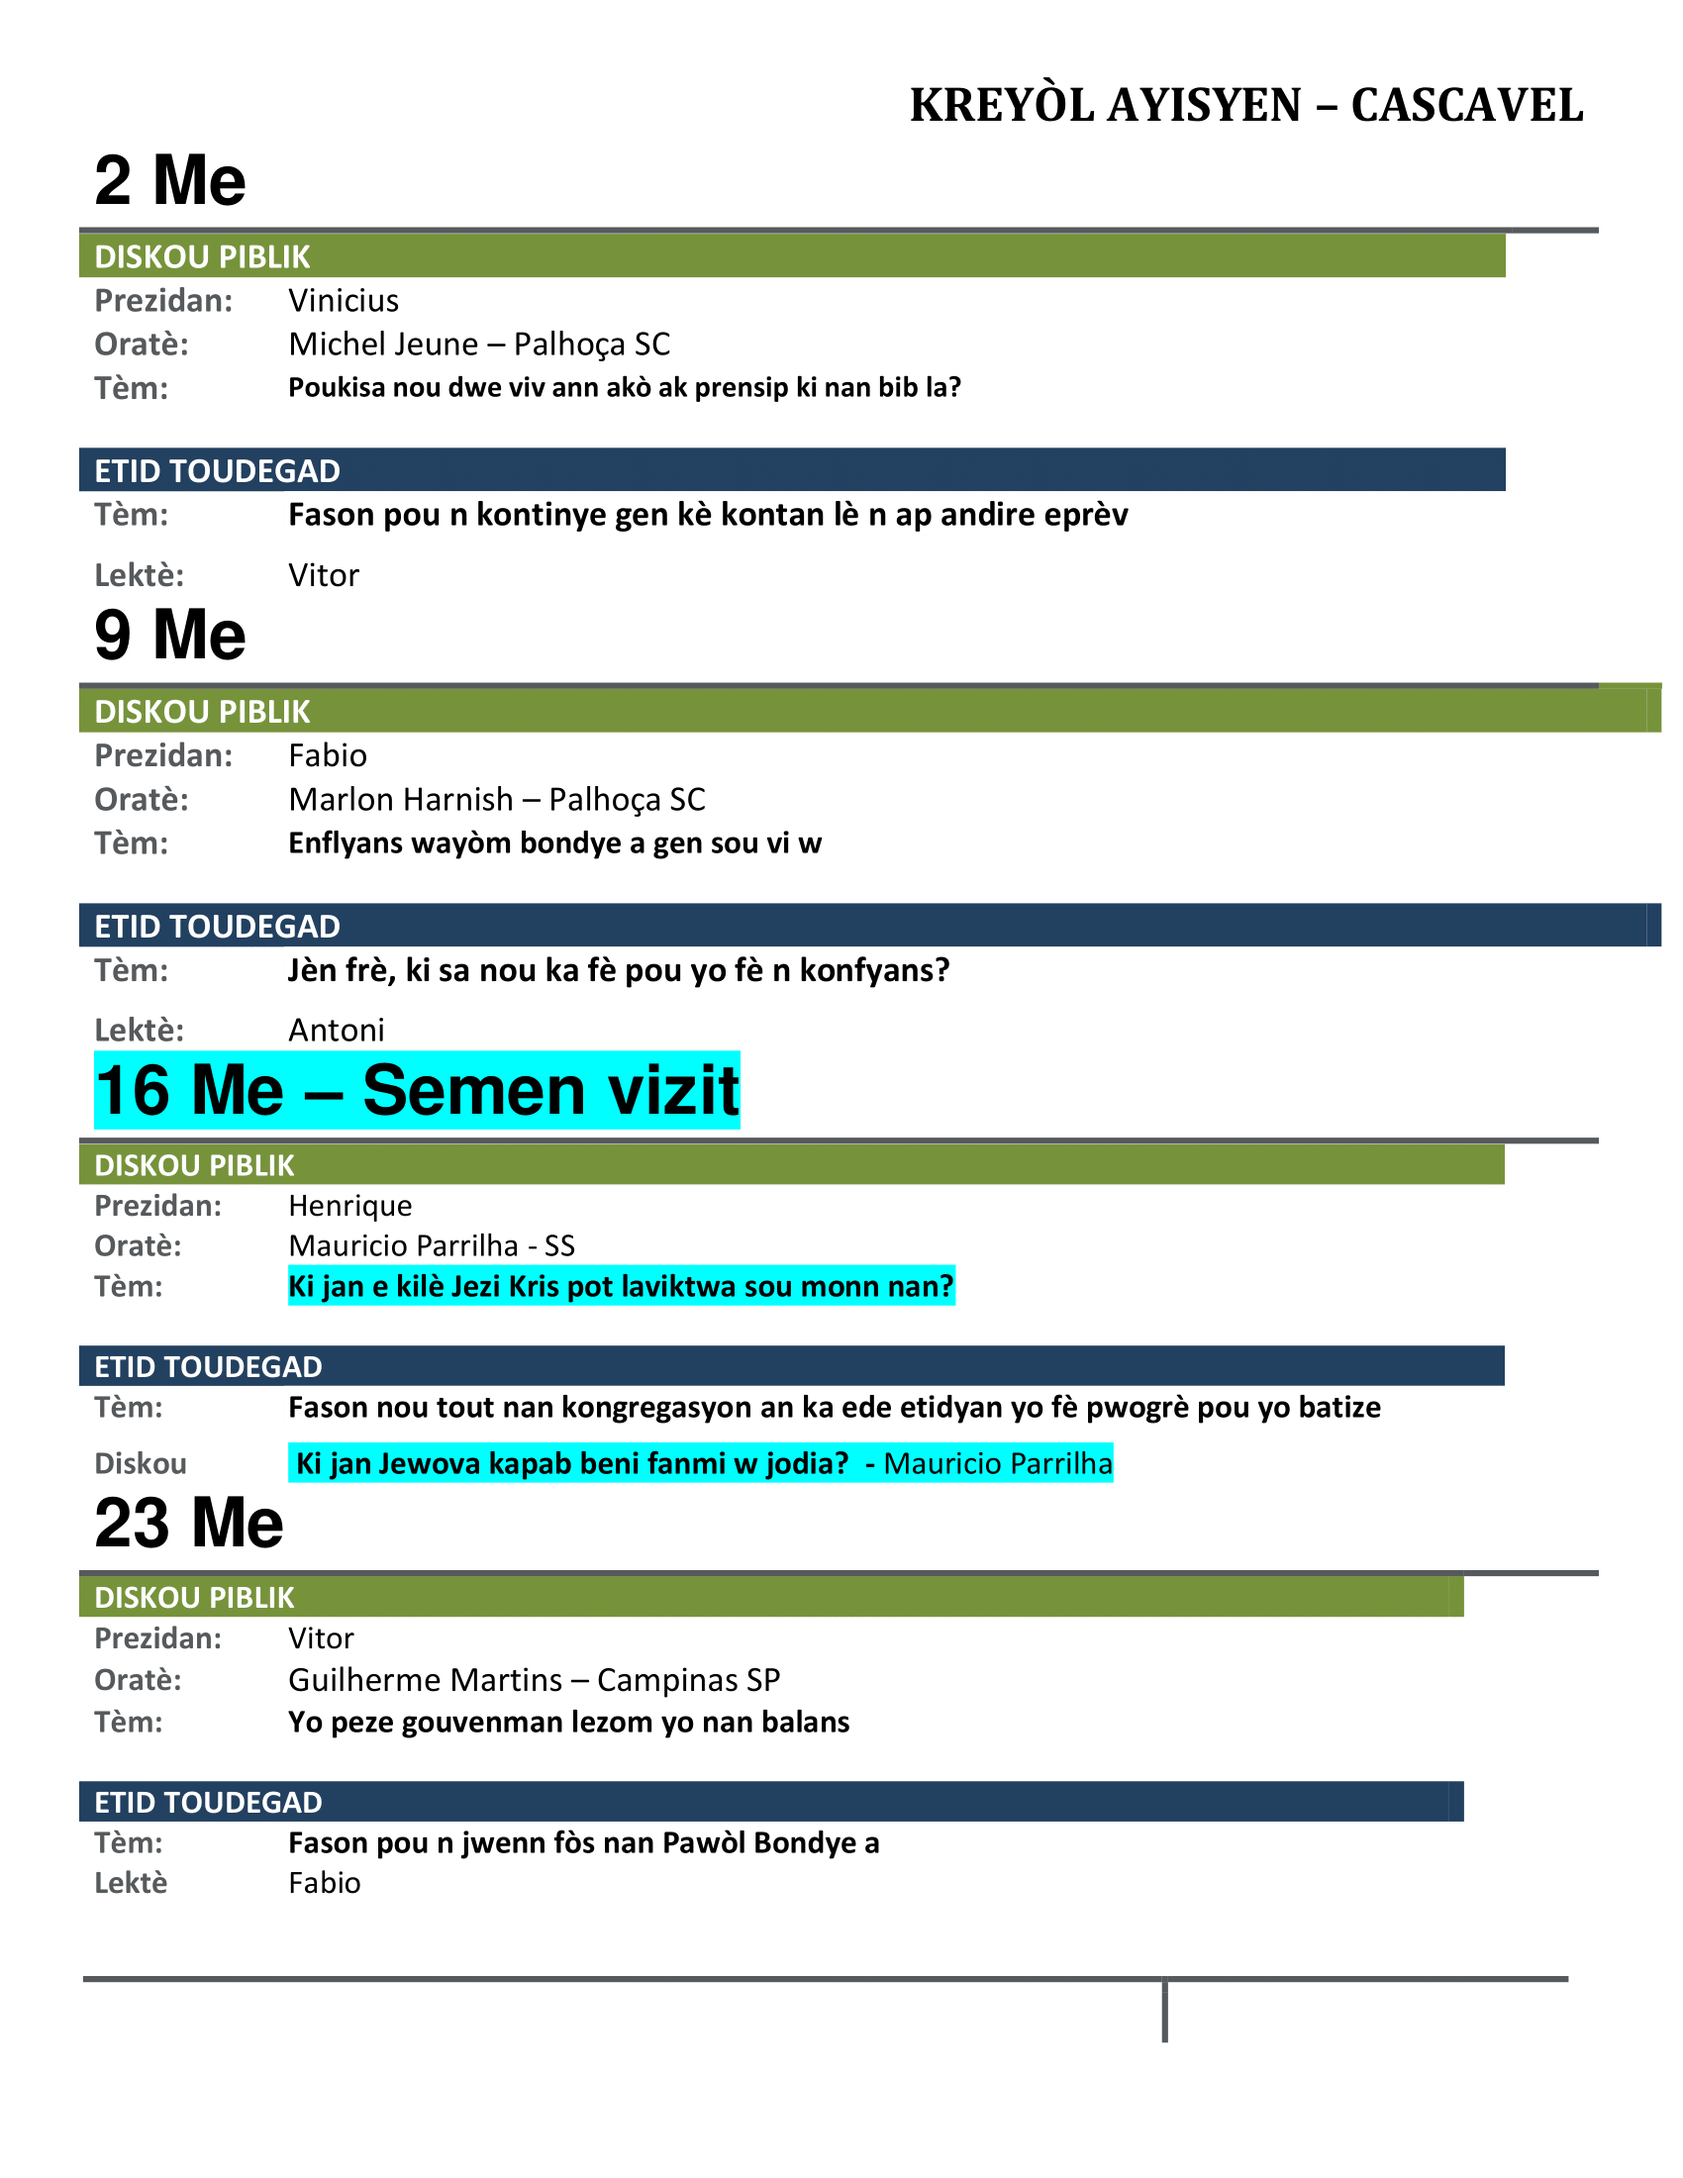
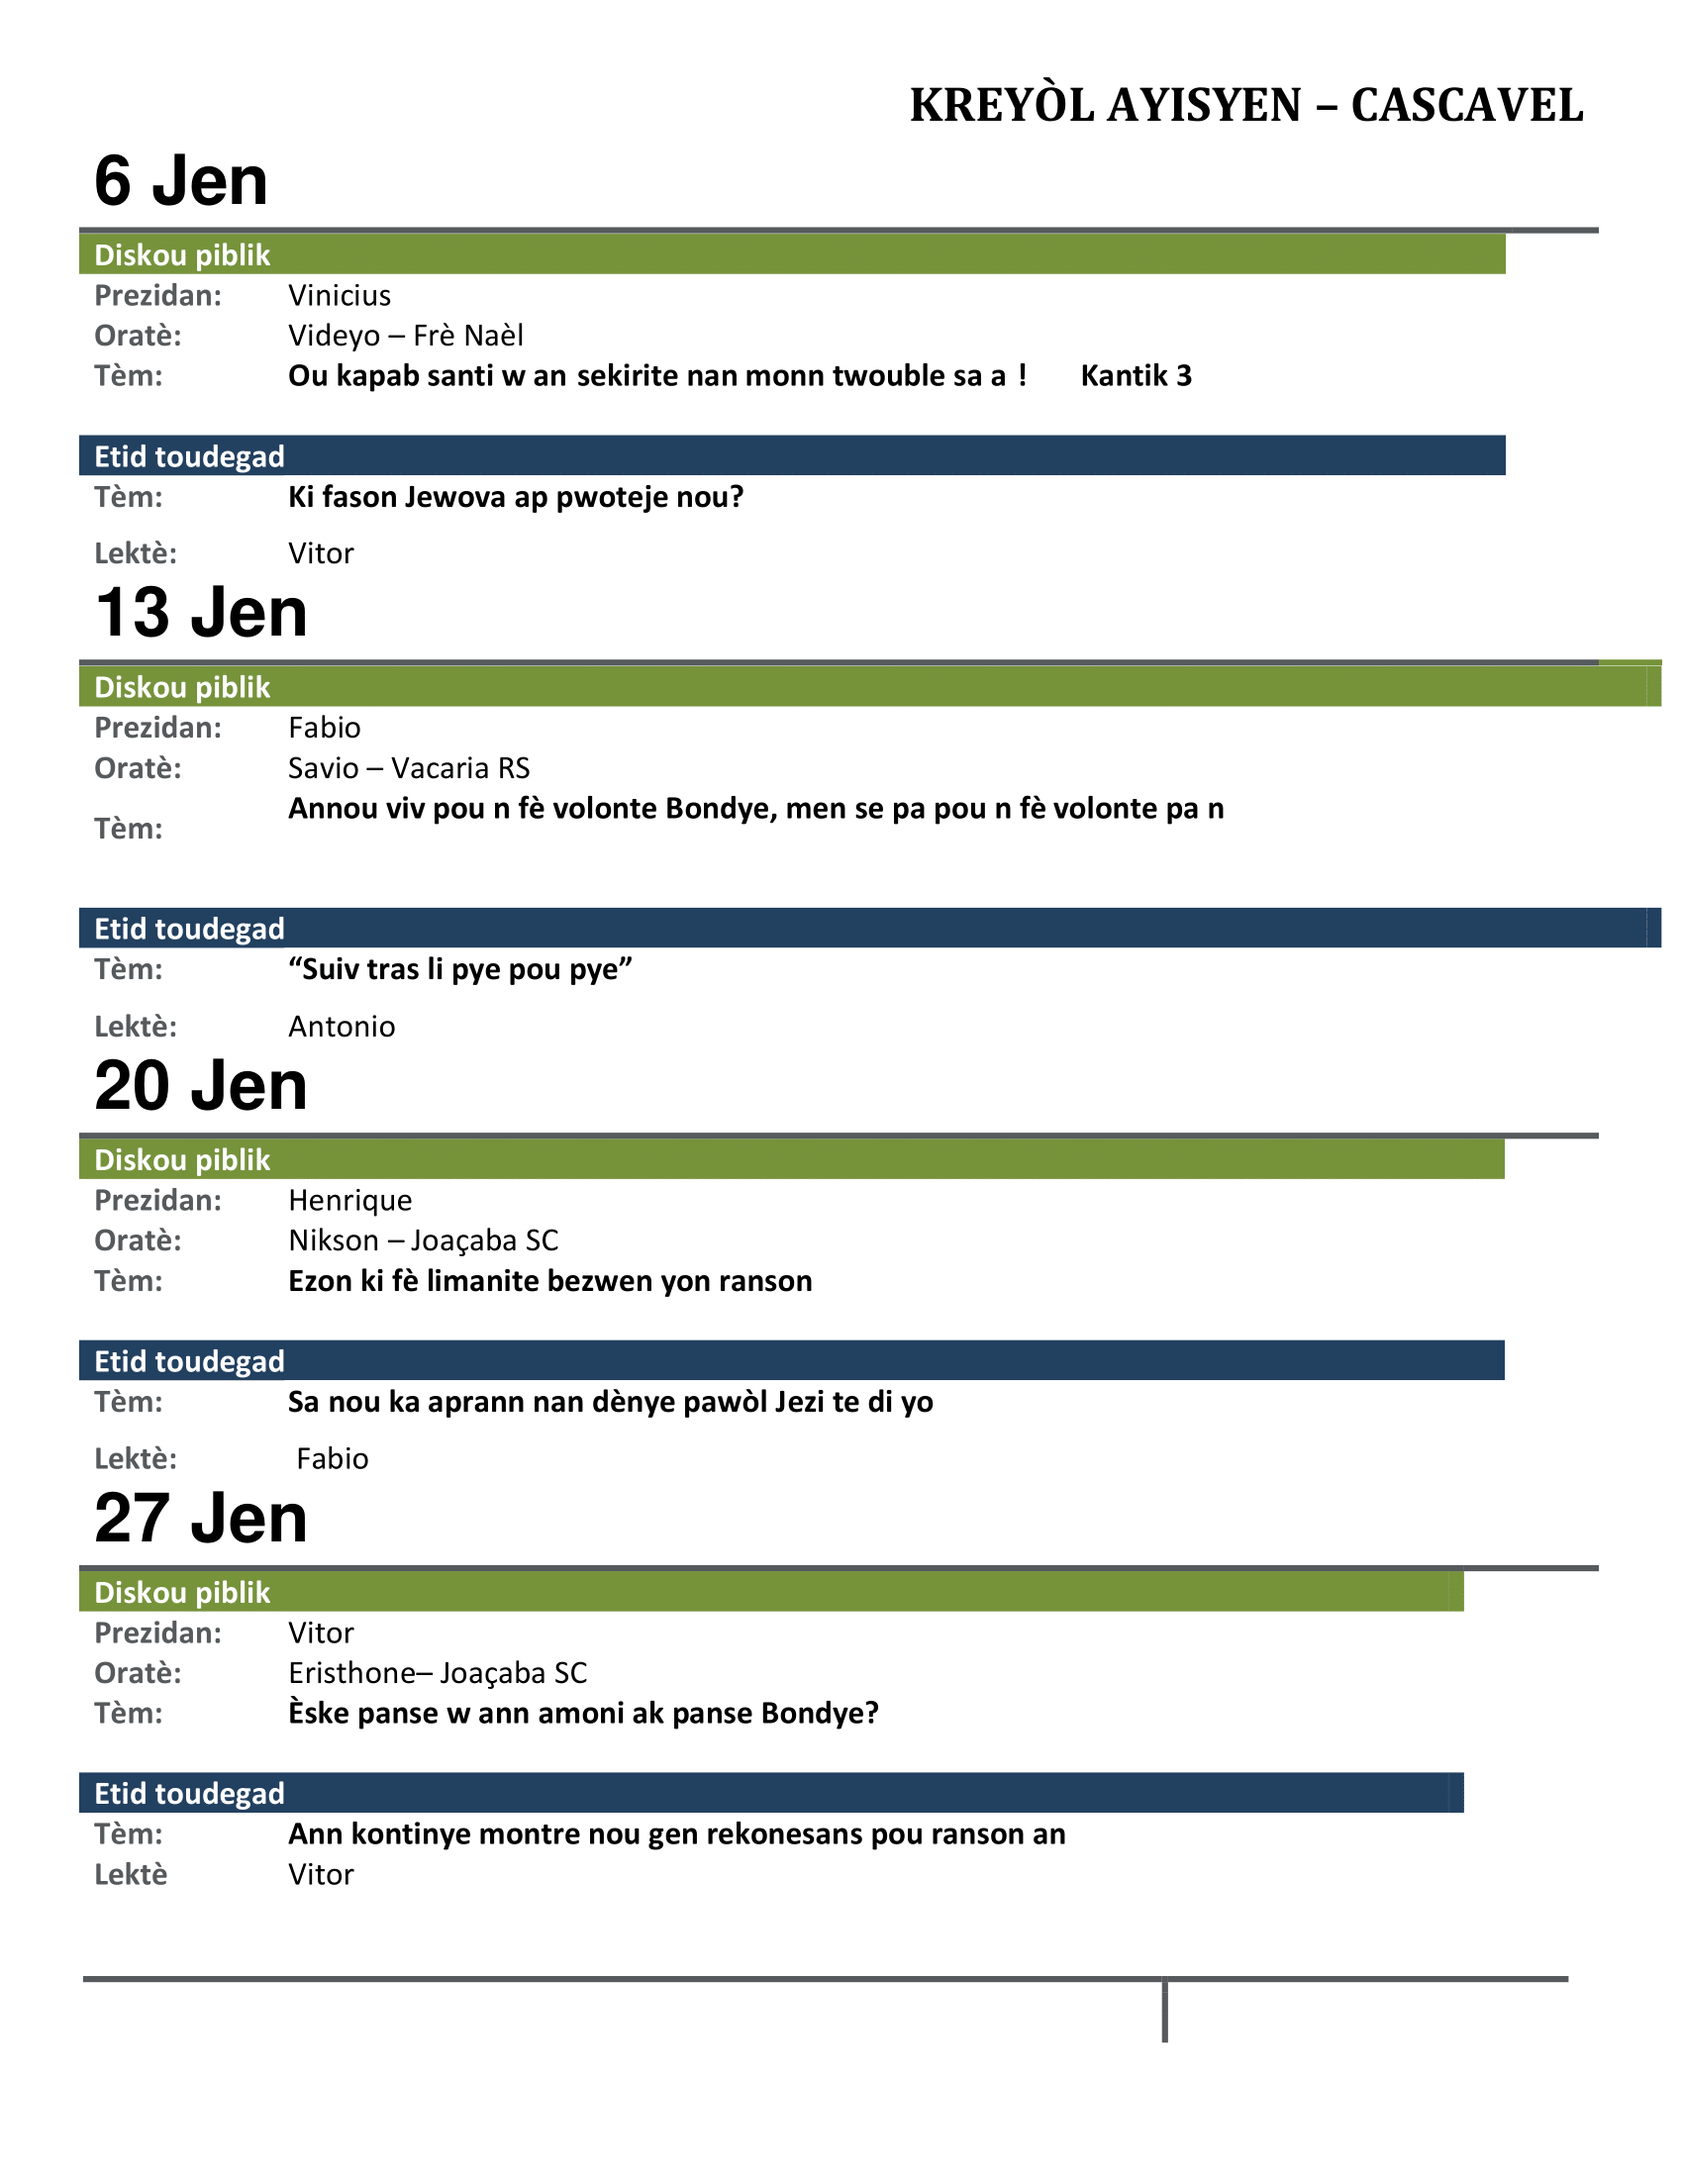
Atualização Jen

Changed region(s): [[0.0312, 0.0618, 0.9976, 0.8655], [0.53, 0.3709, 0.5612, 0.4018]]

diff --git a/index.html b/index.html
@@ -21,8 +21,9 @@
         <article class="post">
             <header>
                 <h3 class="post_title">Pwogram Reyinyon</h3>
-                <img src="Pwograma Reyinyon Me-1.png" alt="programa do mes" class="imagem">
-                <img src="Pwograma Reyinyon Me-2.png" alt="programa do mes" class="imagem">
+                <img src="Pwograma Reyinyon Jen-1.png" alt="programa do mes" class="imagem">
+                <img src="Pwograma Reyinyon Jen-2.png" alt="programa do mes" class="imagem">
+                <img src="Pwograma Reyinyon Jen-3.png" alt="programa do mes" class="imagem">
             </header>
         </article>
 
@@ -32,7 +33,6 @@
             <header>
                 <H3 class="post_title">Pwogram Diskou</H3>
                 <img src="Pwogram Diskou-1.png" alt="programa do mes" class="imagem">
-                <img src="Pwogram Diskou-2.png" alt="programa do mes" class="imagem">
                 <!--<iframe src="Diskou.pdf" alt="pdf programa do mes" class="post_pdf"></iframe>-->
             </header>
         </article>
